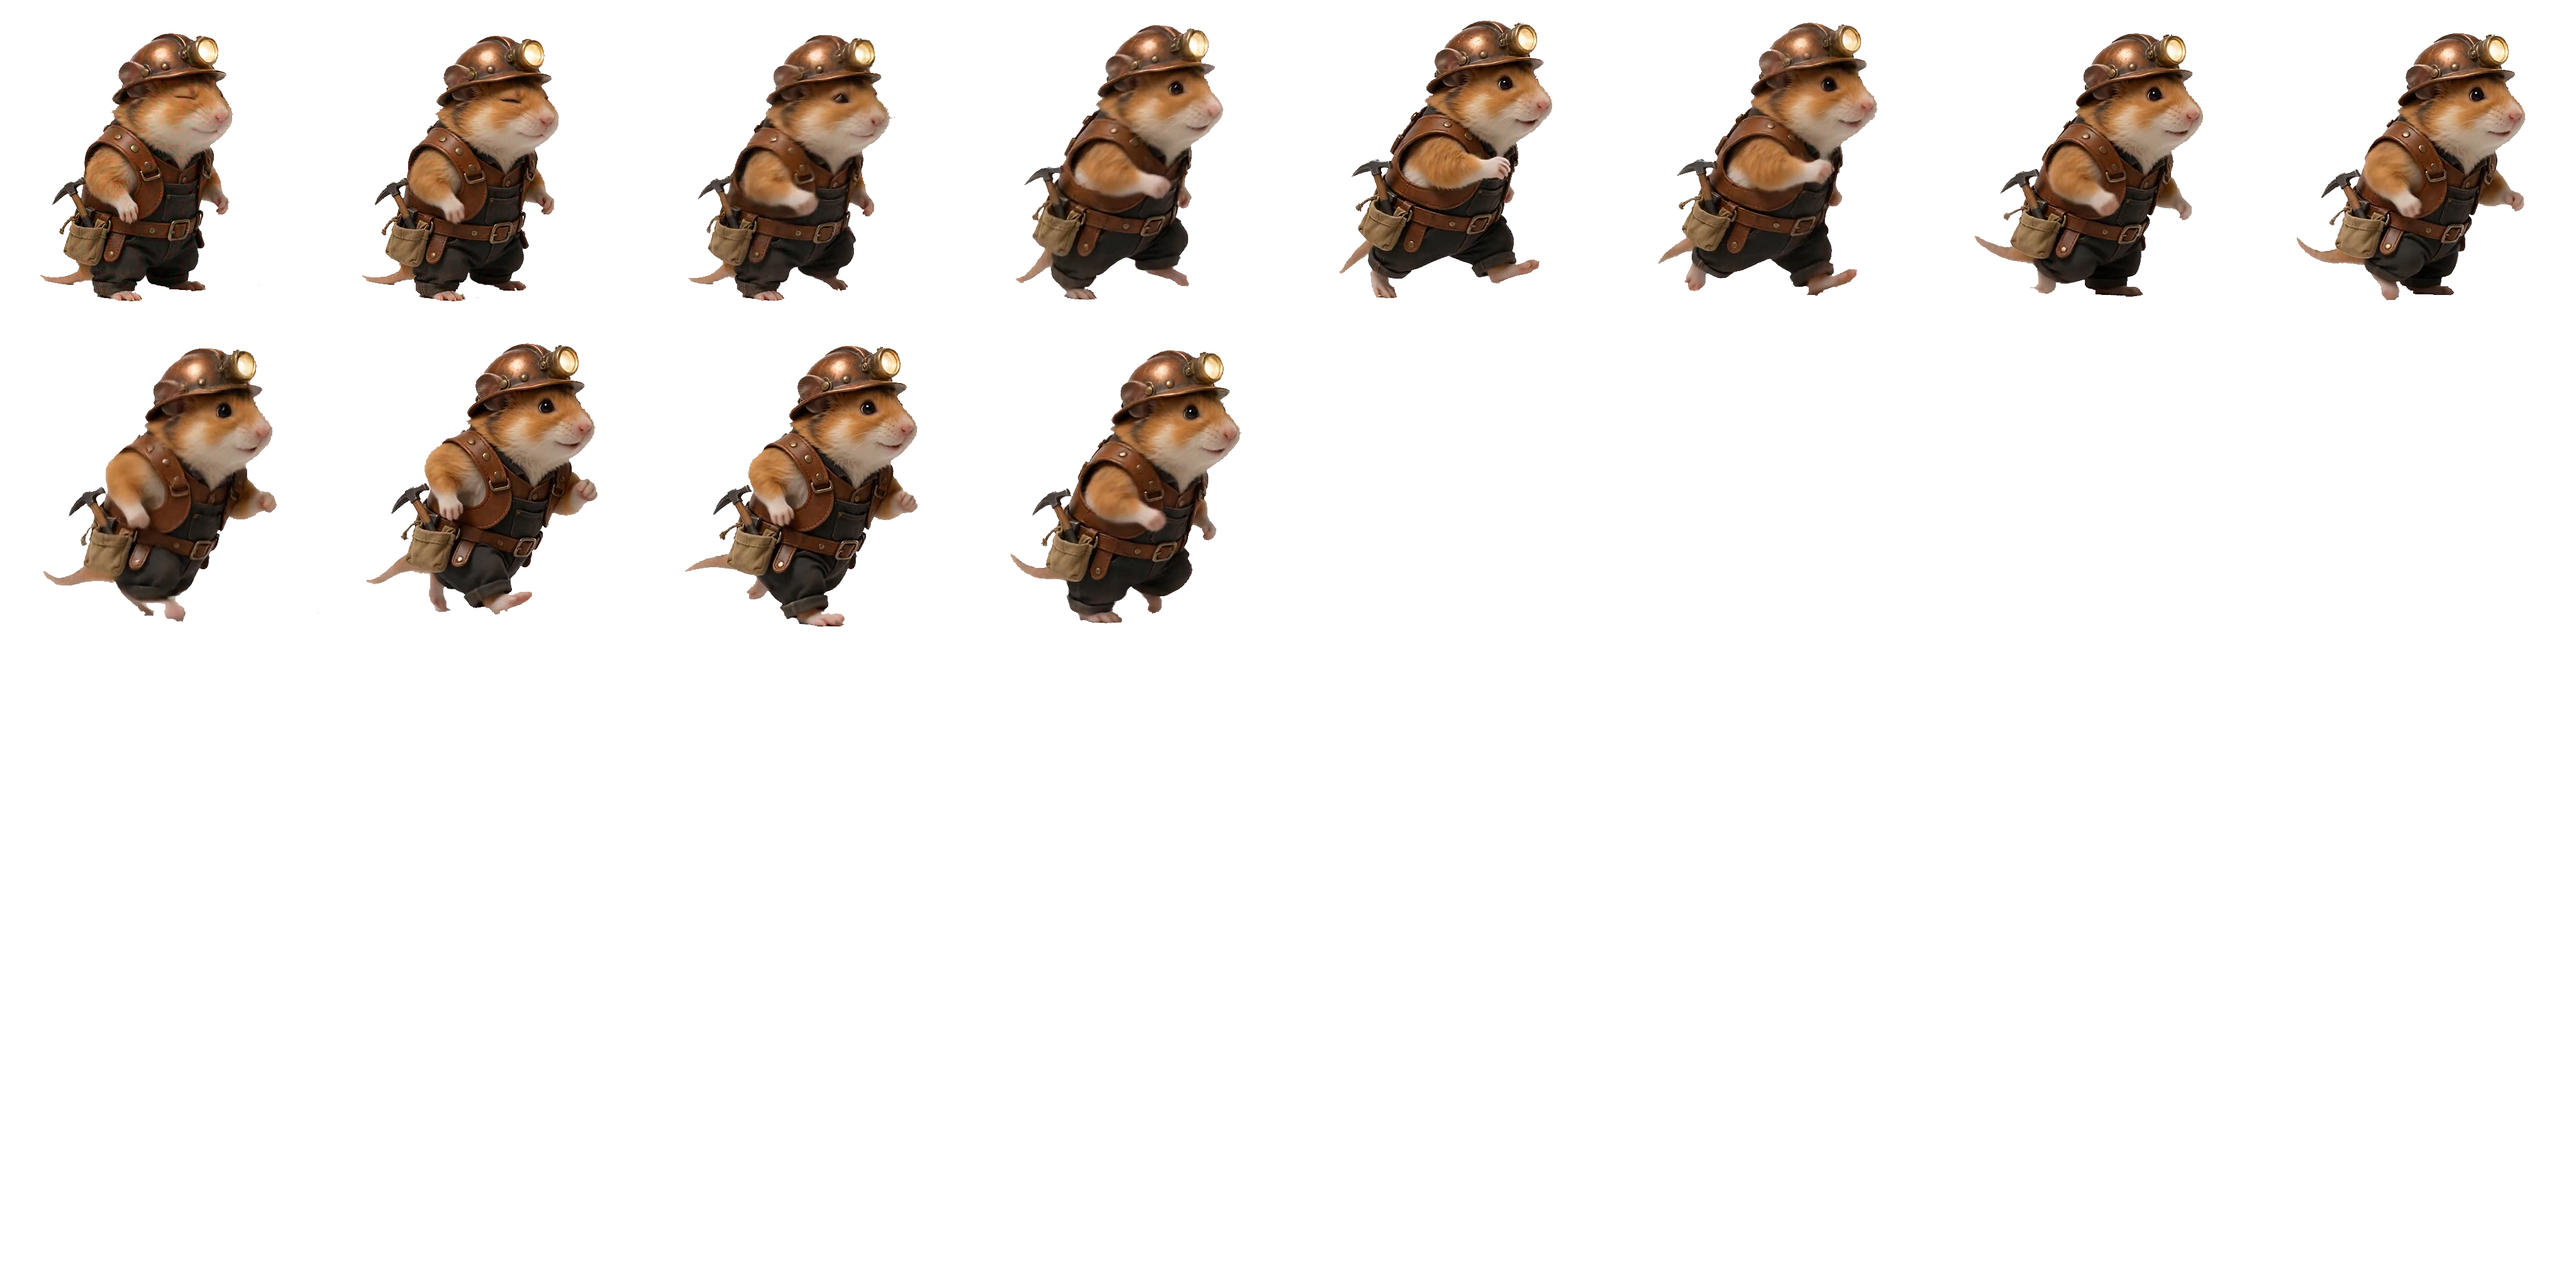
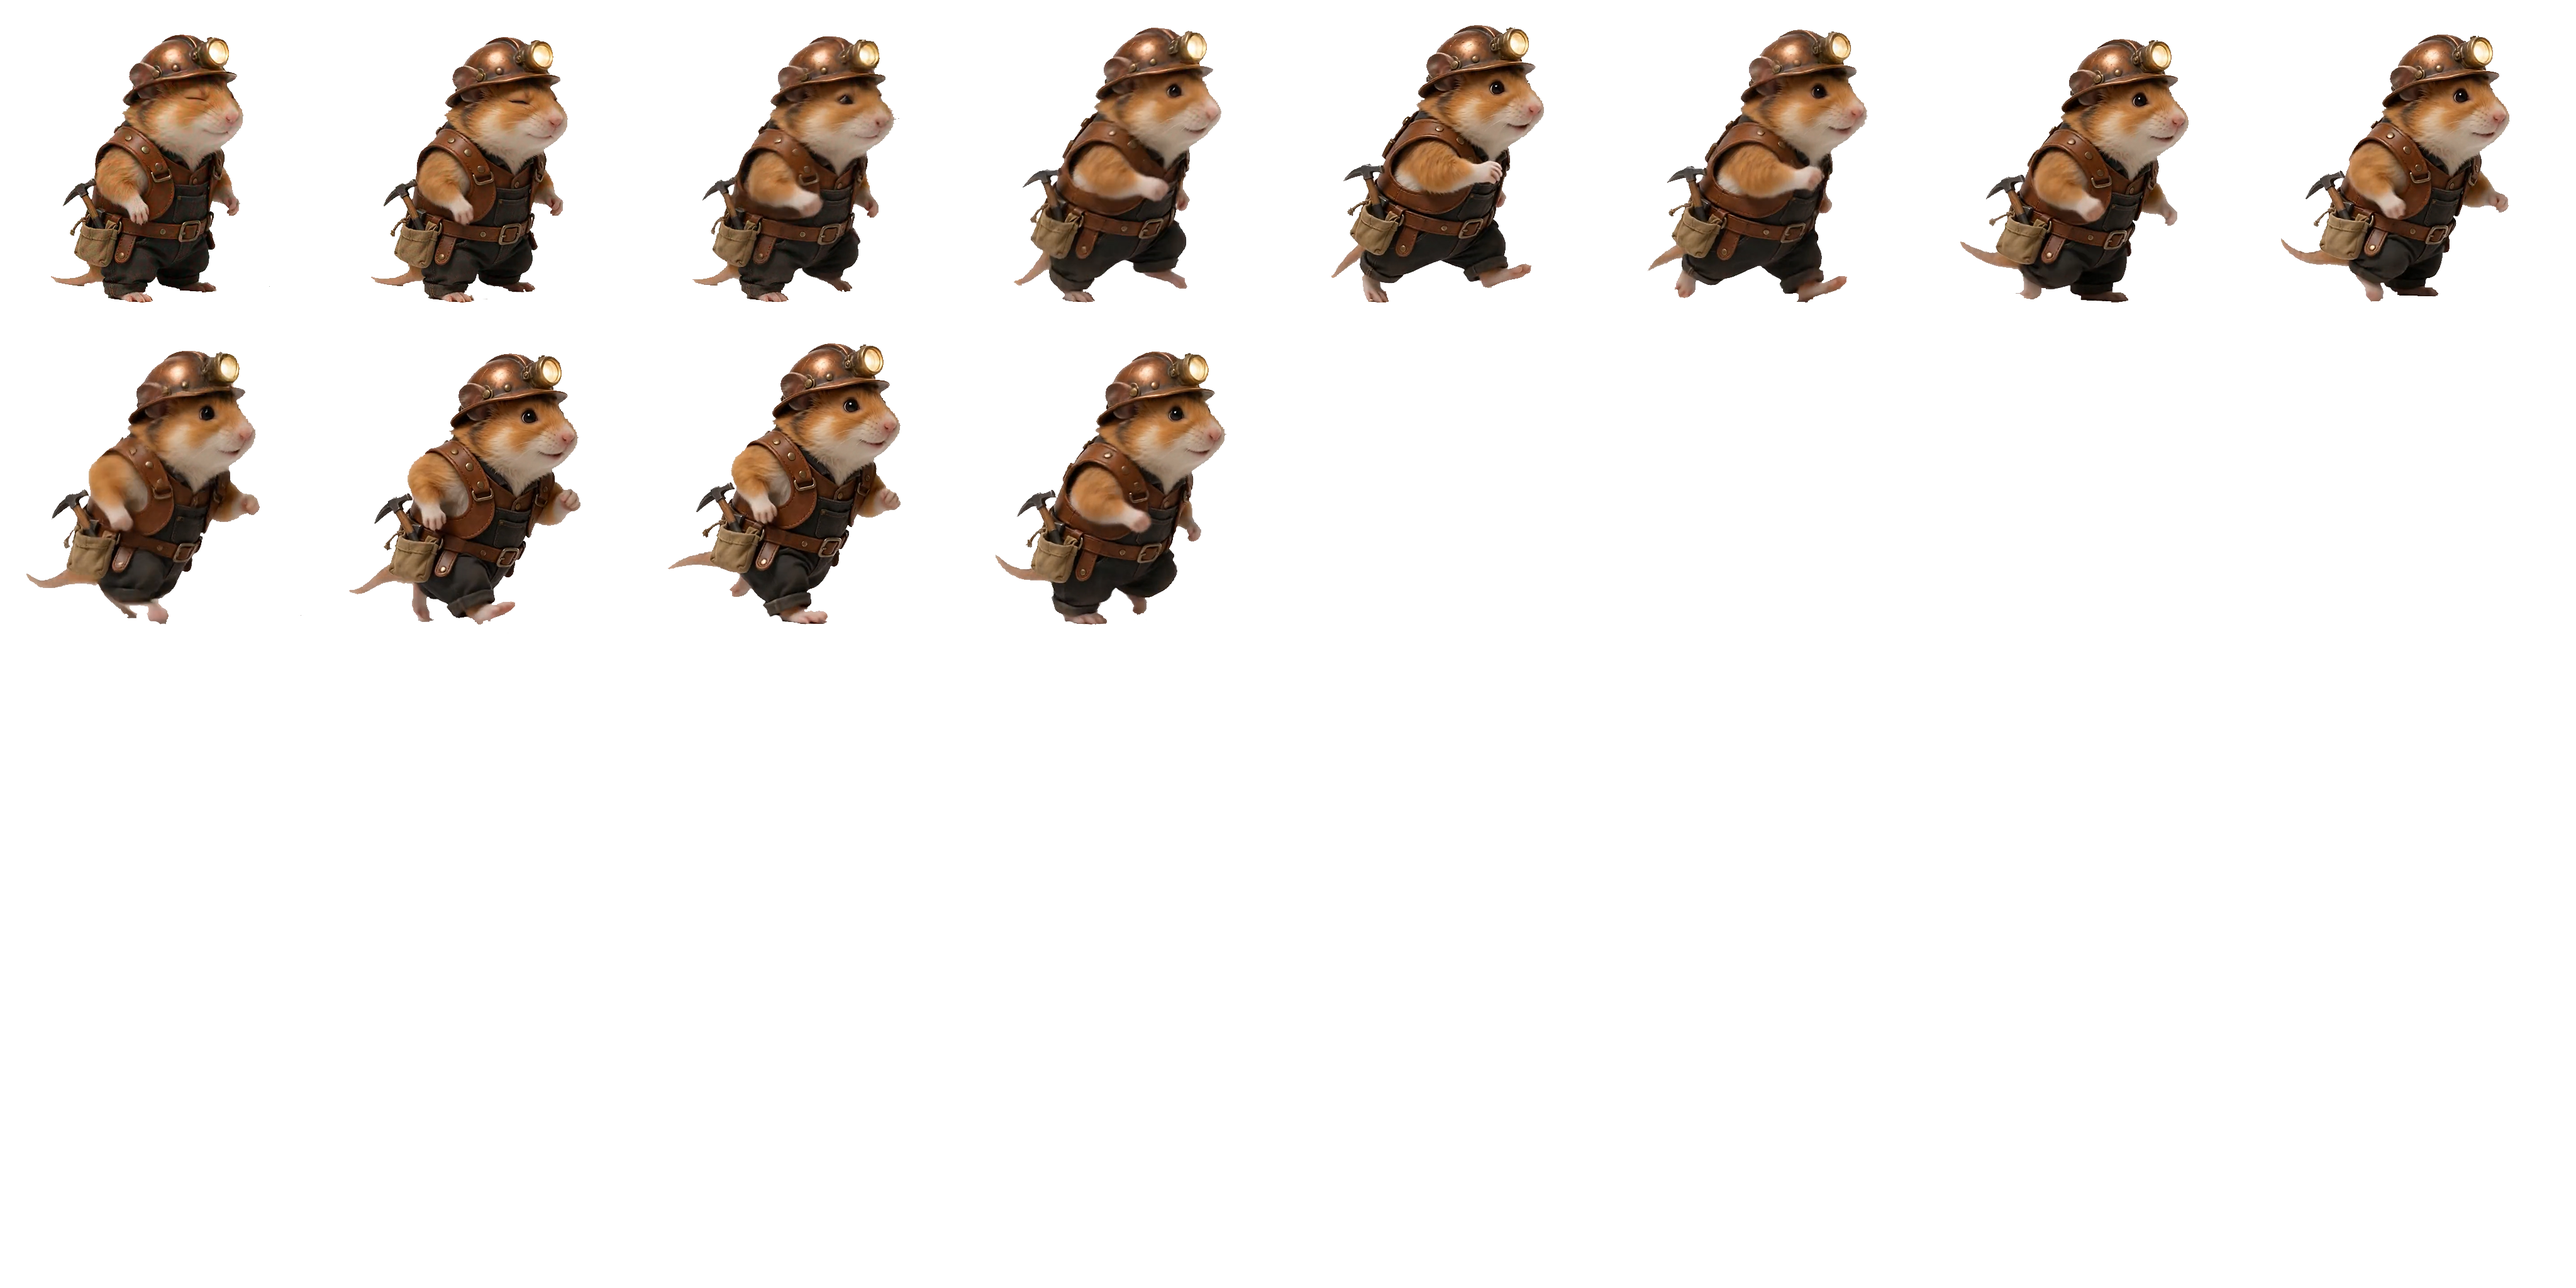
feat(companion)+assets+docs(skill): 仓鼠矿工素材/动画修正——重新导入 mining.png（间隔定格第6帧 waitFrame=5，配置驱动）+ 移动始终朝向移动方向（vx，修复倒退走路）+ walking 漂移归一化修复闪回（hamster-walk-align.py：质心水平对齐256+脚底480，cx跨度44→0.9px、循环11→2回跳0.03px）+ 契约42项/CDP24项全过

diff --git a/src/phaser/scenes/GameScene.js b/src/phaser/scenes/GameScene.js
@@ -538,9 +538,10 @@ export class GameScene extends Scene {
                         sprite.play(dyingKey, true);
                     }
                 } else if (st === 'mining' && anims.mining && this.textures.exists(miningKey)) {
-                    // 采矿动画 = 攻击触发时播一次挥锄，其余攻击间隔定格第 4 帧（索引 3）。
+                    // 采矿动画 = 攻击触发时播一次挥锄，其余攻击间隔定格 waitFrame（默认第 6 帧，索引 5）。
                     // AI 每次命中置 _miningSwing；首次完整 1~19 帧，之后第 5~19 帧单次。
                     const miningStartKey = `${miningKey}_start`;
+                    const miningWaitFrame = anims.mining.waitFrame ?? 5;
                     if (member._miningSwing && !sprite.getData('miningSwing')) {
                         sprite.setData('miningSwing', true);
                         const firstSwing = !sprite.getData('hamsterMining');
@@ -555,18 +556,18 @@ export class GameScene extends Scene {
                             if (anim && anim.key !== miningStartKey && anim.key !== miningKey) return;
                             sprite.setData('miningSwing', false);
                             member._miningSwing = false;
-                            // 挥完定格第 4 帧，直到下一次攻击
+                            // 挥完定格 waitFrame，直到下一次攻击
                             if (sprite.anims.isPlaying) sprite.anims.stop();
-                            if (sprite.texture.key !== miningKey || sprite.frame.name !== 3) {
-                                sprite.setTexture(miningKey, 3);
+                            if (sprite.texture.key !== miningKey || sprite.frame.name !== miningWaitFrame) {
+                                sprite.setTexture(miningKey, miningWaitFrame);
                             }
                         });
                     } else if (!sprite.getData('miningSwing')) {
-                        // 攻击间隔：定格第 4 帧
+                        // 攻击间隔：定格 waitFrame
                         sprite.setData('miningSwing', false);
                         if (sprite.anims.isPlaying) sprite.anims.stop();
-                        if (sprite.texture.key !== miningKey || sprite.frame.name !== 3) {
-                            sprite.setTexture(miningKey, 3);
+                        if (sprite.texture.key !== miningKey || sprite.frame.name !== miningWaitFrame) {
+                            sprite.setTexture(miningKey, miningWaitFrame);
                         }
                     }
                 } else if (st === 'spell' && anims.spell && this.textures.exists(spellKey)) {

diff --git a/tools/ai-gen/hamster-walk-align.py b/tools/ai-gen/hamster-walk-align.py
@@ -1,0 +1,91 @@
+#!/usr/bin/env python3
+"""仓鼠矿工 walking 水平漂移归一化（2026-08-15）：
+AI 生成的 walking.png 每帧人物沿水平方向漂移（帧0 cx≈239 → 帧8~11 cx≈281，
+跨度 ~44px），循环 [2,11] 回跳（帧11→帧2）人物横跳 ~31px，导致移动「闪回」。
+按 SKILL 沉淀经验（luna-run-align：内容质心水平对齐；luna-wr-rebuild：脚底 FEET_Y 固定）：
+- 水平：每帧内容质心 x 对齐到可行参考 X（避免裁切，尽量接近 256）；
+- 垂直：每帧内容底边（脚底）固定到 FEET_Y（默认 480），保持 512×512。
+输出 walking_norm.png；对齐后目标：水平质心跨度 <2px、循环回跳差异与相邻帧同级。
+用法：python tools/ai-gen/hamster-walk-align.py [--in <walking.png>] [--out <walking_norm.png>]
+"""
+import argparse
+import numpy as np
+from PIL import Image
+
+
+def frame_rgba(img, f, cols, fw, fh):
+    fx = (f % cols) * fw
+    fy = (f // cols) * fh
+    return np.array(img.crop((fx, fy, fx + fw, fy + fh)))
+
+
+def measure(rgba):
+    alpha = rgba[:, :, 3]
+    ys, xs = np.where(alpha > 16)
+    if len(ys) == 0:
+        return None
+    return int(xs.min()), int(ys.min()), int(xs.max()), int(ys.max()), float(xs.mean()), float(ys.mean())
+
+
+def main():
+    ap = argparse.ArgumentParser()
+    ap.add_argument('--in', dest='src', default='assets/companions/hamster_miner/walking.png')
+    ap.add_argument('--out', dest='dst', default='assets/companions/hamster_miner/walking_norm.png')
+    ap.add_argument('--cell', type=int, default=512)
+    ap.add_argument('--cols', type=int, default=8)
+    ap.add_argument('--feet-y', type=int, default=480)
+    args = ap.parse_args()
+
+    img = Image.open(args.src).convert('RGBA')
+    fw = fh = args.cell
+    cols = args.cols
+    n = (img.width // fw) * (img.height // fh)
+    frames = [frame_rgba(img, f, cols, fw, fh) for f in range(n)]
+    info = [measure(r) for r in frames]
+
+    lo, hi = 2, fw - 2
+    lower = max(lo + m[4] - m[0] for m in info if m is not None)
+    upper = min(hi + m[4] - m[2] for m in info if m is not None)
+    ref_x = max(lower, min(upper, 256.0)) if lower <= upper else 256.0
+    feet_y = args.feet_y
+    print(f'{n} 帧，水平参考 X = {ref_x:.1f}（可行区 {lower:.1f} ~ {upper:.1f}），脚底 Y = {feet_y}')
+
+    out = Image.new('RGBA', (img.width, img.height), (0, 0, 0, 0))
+    for f in range(n):
+        rgba = frames[f]
+        m = info[f]
+        if m is None:
+            continue
+        x0, y0, x1, y1, cx, cy = m
+        dx = int(round(ref_x - cx))
+        dy = int(round(feet_y - y1))
+        if x0 + dx < 0 or x1 + dx >= fw or y0 + dy < 0 or y1 + dy >= fh:
+            print(f'警告：帧 {f} 平移 ({dx},{dy}) 越界，跳过')
+            continue
+        shifted = np.zeros_like(rgba)
+        if dy >= 0:
+            dst_y0, src_y0, h = dy, 0, fh - dy
+        else:
+            dst_y0, src_y0, h = 0, -dy, fh + dy
+        if dx >= 0:
+            dst_x0, src_x0, w = dx, 0, fw - dx
+        else:
+            dst_x0, src_x0, w = 0, -dx, fw + dx
+        shifted[dst_y0:dst_y0 + h, dst_x0:dst_x0 + w] = rgba[src_y0:src_y0 + h, src_x0:src_x0 + w]
+        fx = (f % cols) * fw
+        fy = (f // cols) * fh
+        out.paste(Image.fromarray(shifted, 'RGBA'), (fx, fy))
+
+    out.save(args.dst)
+    out2 = Image.open(args.dst).convert('RGBA')
+    ni = [measure(frame_rgba(out2, f, cols, fw, fh)) for f in range(n)]
+    cxs = [m[4] for m in ni if m]
+    cys = [m[5] for m in ni if m]
+    bots = [m[3] for m in ni if m]
+    print('对齐后 cx 跨度:', round(max(cxs) - min(cxs), 1),
+          'cy 跨度:', round(max(cys) - min(cys), 1),
+          '脚底范围:', min(bots), '-', max(bots))
+
+
+if __name__ == '__main__':
+    main()

diff --git a/SKILL.md b/SKILL.md
@@ -5191,7 +5191,11 @@ lint / vite build / test-collider / test-config-integrity；实机验证 idle/wa
 - `animations`：walk 两段式 `startFrames:[0,11]`（起步完整 12 帧，repeat 0）+
   `loopFrames:[2,11]`（循环第 3~12 帧，repeat -1）；mining 素材 19 帧
   `startFrames:[0,18]`（首次完整挥锄）+ `loopFrames:[4,18]`（后续第 5~19 帧，
-  **repeat 0 单次**）——攻击触发才播，间隔定格第 4 帧；dying `repeat:0` 只播一次。
+  **repeat 0 单次**）——攻击触发才播，间隔定格 `waitFrame`（第 6 帧，索引 5，
+  2026-08-15 用户口径）；dying `repeat:0` 只播一次。
+  **walking 漂移归一化铁律**：AI 生成走路帧常水平漂移（质心跨度 >2px 即闪回）——
+  `tools/ai-gen/hamster-walk-align.py` 按内容质心对齐到 256 + 脚底 FEET_Y=480，
+  对齐后帧11→2 循环回跳剪影差异须与相邻帧同级。
 
 #### 3. 实体（src/entities/hamster-miner.js）
 - `extends Companion`（复用 data/六维/动画配置/运行时字段），`super(合成 archive)`。
@@ -5224,9 +5228,12 @@ lint / vite build / test-collider / test-config-integrity；实机验证 idle/wa
 - GameScene `_syncCompanionSprites`：渲染对象 = `PartySystem.members` +
   `Game.friendlyUnits`；动画分支：`dying`（防重播 data 标记）> `mining`（**攻击触发
   播一次挥锄**：`_miningSwing` + data 标记，首次 mining_start、后续 mining，
-  animationcomplete 后定格第 4 帧 `setTexture(miningKey, 3)`；间隔不干预挥锄播放）>
+  animationcomplete 后定格 `waitFrame` `setTexture(miningKey, miningWaitFrame)`；
+  间隔不干预挥锄播放）>
   spell/run > `walk`（**两段式**：`hamsterWalk` 标记，起步 walk_start 完整帧 →
-  animationcomplete 切 walk 循环）> idle 停帧；受击白闪 `hitFlash`；
+  animationcomplete 切 walk 循环）> idle 停帧；**移动朝向铁律**：walk 时始终面朝
+  vx 实际移动方向（`member._isHamsterMiner && moving` → `faceRight = vx > 0`），
+  不面朝目标（否则寻路绕行/回小屋会倒退走路）；受击白闪 `hitFlash`；
   尺寸 `member.displaySize ?? PLAYER_DEFAULTS`；多实例共用素材键 `animId`。
 - `_updateDynamicDepths` 的侍从深度查找也要带 friendlyUnits（墙后正常被遮挡）。
 
@@ -5242,8 +5249,8 @@ lint / vite build / test-collider / test-config-integrity；实机验证 idle/wa
 - PerceptionSystem `_isValidTarget`：放行 `_faction==='companion' && _enemyTargetable`，
   防守怪 `_preferDefenseTargets` 按交战半径锁定（与玩家同链，免 LOS 口径不变）。
 - 验证：`scripts/test-hamster-miner.mjs`（数据+接线契约）+ `tools/cdp-hamster-miner.mjs`
-  （实机：小屋生成/属性/最近节点/采矿挥锄+间隔定格第4帧/每2s-100/行走两段式/
-  交战自卫生效/dying 移除）；
+  （实机：小屋生成/属性/最近节点/采矿挥锄+间隔定格第6帧/每2s-100/行走两段式/
+  双向移动朝向/交战自卫生效/dying 移除）；
   eslint 0 error + vite build。
 
 ---

diff --git a/CHANGELOG.md b/CHANGELOG.md
@@ -1,4 +1,18 @@
 # 变更日志
+### 对话：仓鼠矿工素材/动画修正——重新导入 mining + 间隔定格第6帧 + 移动朝向 + walking 漂移归一化（2026-08-15）
+- **重新导入 mining.png**：从素材库覆盖 `assets/companions/hamster_miner/mining.png`
+  （源文件已更新，19 帧不变）；挖矿间隔定格帧改为**第 6 帧**（索引 5，
+  `animations.mining.waitFrame: 5`，GameScene 读配置渲染，挥锄播完与攻击间隔都定格此帧）。
+- **移动朝向**：仓鼠矿工移动（walk）时始终面朝实际移动方向（vx 符号），不再面朝
+  目标——修复寻路绕行/回小屋卸货时“倒退走路”。
+- **walking 精灵图漂移归一化（闪回修复，SKILL 沉淀经验）**：AI 生成 walking 每帧
+  人物水平漂移（帧质心 cx 239→284，跨度 44px），循环 [2,11] 回跳（帧11→帧2）
+  人物横跳 ~31px 导致闪回。新增 `tools/ai-gen/hamster-walk-align.py`（内容质心水平
+  对齐到 256 + 脚底固定 FEET_Y=480，保持 512×512）：对齐后 cx 跨度 44→0.9px、
+  帧11→2 剪影差异 0.044（优于相邻帧 10→11 的 0.084）、水平回跳 0.03px，循环无缝。
+- **验证**：契约测试 42/42；CDP 实机探针 24/24（定格第6帧、双向移动朝向、
+  walk 两段式、背包物流、挥锄、交战、死亡全绿）；eslint 0 error；vite build 通过。
+
 ### 对话：仓鼠小屋图层接入遮挡仲裁（2026-08-16）
 - **问题**：小屋是独立建筑（无面线），不参与 `junctionCorrectedDepth` 遮挡仲裁；
   在墙/门附近时，被墙/门仲裁抬高的单位会错误盖在小屋上（与门图层问题同类）。
